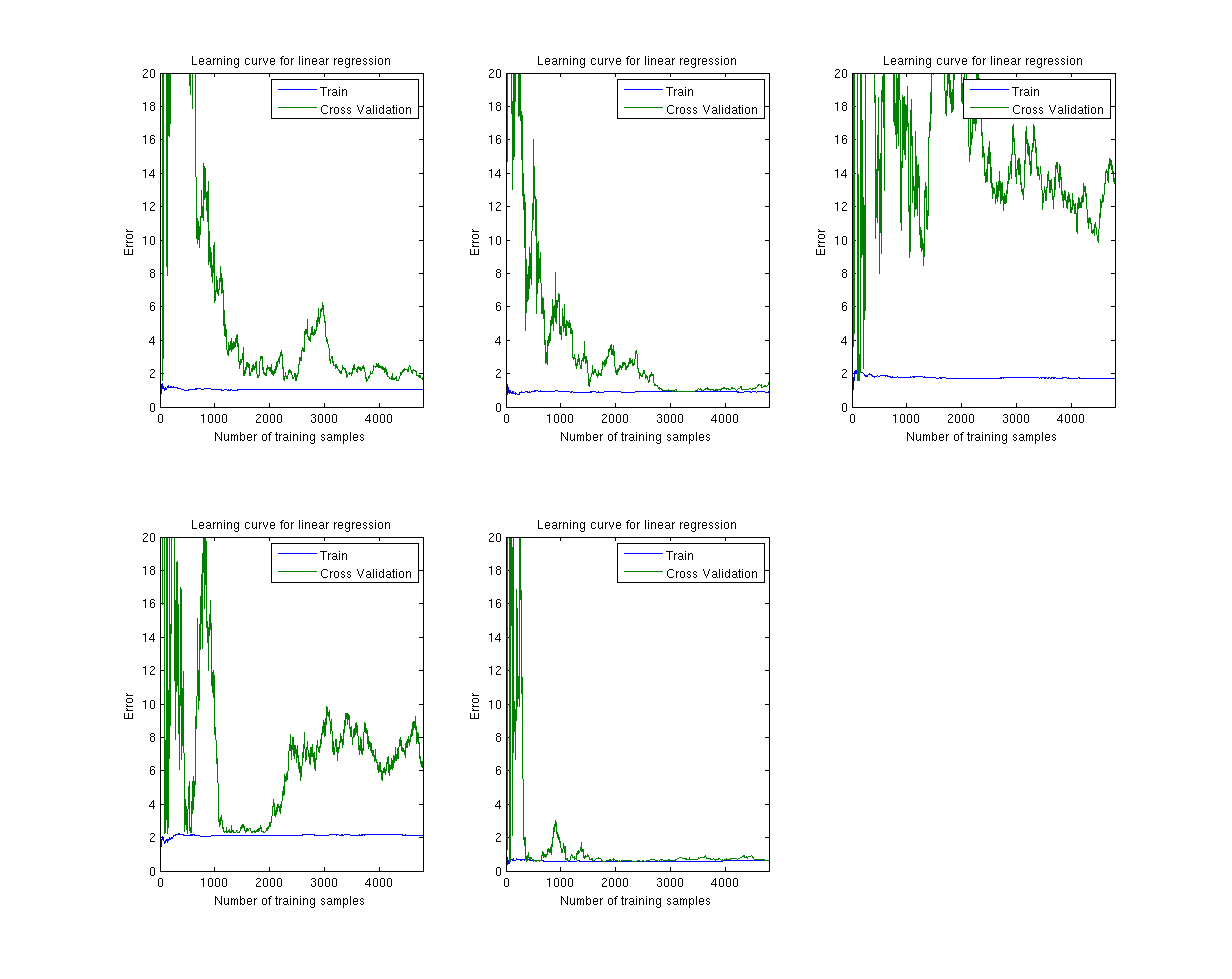
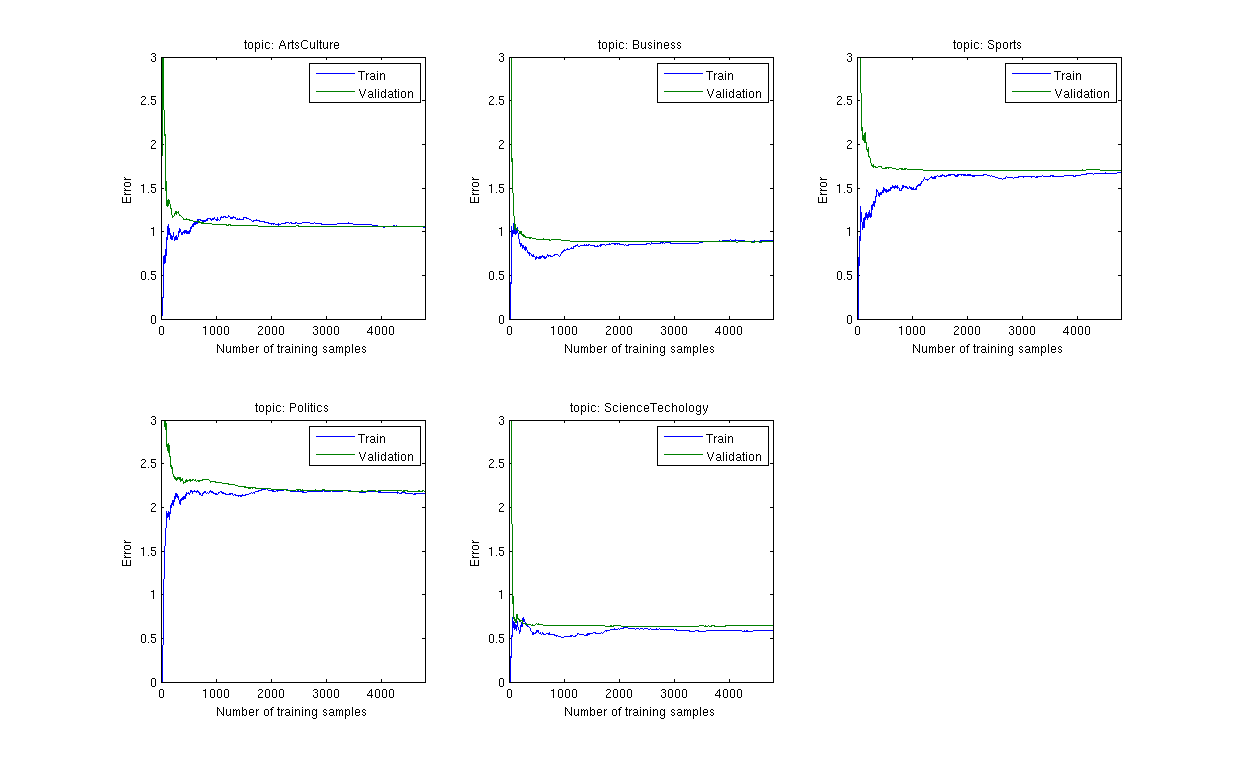
remove feature normalize and new results

diff --git a/TweetClassify/matlab/Run.m b/TweetClassify/matlab/Run.m
@@ -14,29 +14,27 @@ clear; close all; clc
     
 %% Run for topic ArtsCulture    
 %    topic = 1;
-%    lambda = 6;
+%    lambda = 0;
 %    [x1,y1,theta1] = main(topic,lambda);
 
 %% Run for topic Business
 %    topic = 2;
-%    lambda = 10;
+%    lambda = 0;
 %    [x2,y2,theta2] = main(topic,lambda);
 
 %% Run for topic Sports 
 %    topic = 3;
-%    lambda = 10;
+%    lambda = 0;
 %    [x3,y3,theta3] = main(topic,lambda);
 
 %% Run for topic Politics    
 %    topic = 4;
-%    lambda = 10;
+%    lambda = 0;
 %    [x4,y4,theta4] = main(topic,lambda);
 
-%% Run for topic ScienceTechnology
-    
-    
+%% Run for topic ScienceTechnology    
 %    topic = 5;
-%    lambda = 10;
+%    lambda = 0;
 %    [x5,y5,theta5] = main(topic,lambda);
 %end
 
@@ -56,23 +54,26 @@ for i = 1:iter
 end
 
 %% plot errors_trains
+t = ['ArtsCulture' 'Business' 'Sports' 'Politics' 'ScienceTechnology'];
 figure;
 for i = 1:5
     subplot(2,3,i);
     hist(errors_train(:,i)',10);
-    title('training error distributions')   
-    xlabel('scaled error values')
-    ylabel('count Errors')
+    title(t(i))
+    legend('Training Error')
+    xlabel('Error')
+    ylabel('Count Errors')
 
 end
 
 %% plot errors_val
 figure;
-for i = 1:5
+for i = 1:5 
     subplot(2,3,i);
     hist(errors_val(:,i)',10);
-    title('validation error distributions')   
-    xlabel('scaled error values')
-    ylabel('count Errors')
+    title(t(i))
+    legend('Validation Error')
+    xlabel('Error')
+    ylabel('Count Errors')
 
 end

diff --git a/TweetClassify/matlab/main.m b/TweetClassify/matlab/main.m
@@ -10,7 +10,8 @@ m = length(Y);
 n = length(Yval);
 
 %% X data features normalize
-[X] = featureNormalize(X);
+%[X] = featureNormalize(X);
+%[Xval] = featureNormalize(Xval);
 
 %% init X
 X = [ones(m,1) X];
@@ -22,6 +23,7 @@ Xval = [ones(n,1) Xval];
 train_error = zeros(m,1);
 val_error = zeros(m,1);
 
+t = ['ArtsCulture' 'Business' 'Sports' 'Politics' 'ScienceTechnology'];
 
 %% Run linear regression and plot training error with validation error
 
@@ -36,11 +38,11 @@ end
 
 subplot(2,3,topic);
 plot(1:m, train_error, 1:m,val_error);
-title('Learning curve for linear regression')
-legend('Train','Cross Validation')
+title(t(topic))
+legend('Train','Validation')
 xlabel('Number of training samples')
 ylabel('Error')
-axis([0 m 0 20])
+axis([0 m 0 3])
 
 %% Polynomial Regression
 

diff --git a/TweetClassify/matlab/lambda_test.m b/TweetClassify/matlab/lambda_test.m
@@ -10,7 +10,8 @@ m = length(Y);
 n = length(Yval);
 
 %% X data features normalize
-[X] = featureNormalize(X);
+%[X] = featureNormalize(X);
+%[Xval] = featureNormalize(Xval);
 
 %% init X
 X = [ones(m,1) X];
@@ -22,9 +23,13 @@ Xval = [ones(n,1) Xval];
 [lambda_vec,train_error,val_error] = ...
     regulationCurve(X,Y,Xval,Yval);
 
+t = ['ArtsCulture' 'Business' 'Sports' 'Politics' 'ScienceTechnology'];
+
+%% plot result
 subplot(2,3,topic);
 plot(lambda_vec,train_error,lambda_vec,val_error);
-legend('Train', 'Cross Validation');
-xlabel('lambda');
-ylabel('Error');
+title(t(topic))
+legend('Train', 'Cross Validation')
+xlabel('lambda')
+ylabel('Error')
 %axis([0 10 0 100]);

diff --git a/TweetClassify/matlab/linearCost.m b/TweetClassify/matlab/linearCost.m
@@ -9,7 +9,7 @@ temp = theta;
 temp(1) = 0;
 
 for i = 1 : size(theta,1)
-grad(i) = 1/m * sum((X*theta - y) .* X(:,i)) + lambda/m * temp(i);
+    grad(i) = 1/m * sum((X*theta - y) .* X(:,i)) + lambda/m * temp(i);
 end
 
 grad = grad(:);

diff --git a/TweetClassify/matlab/error_distribution.m b/TweetClassify/matlab/error_distribution.m
@@ -10,7 +10,8 @@ m = length(Y);
 n = length(Yval);
 
 %% X data features normalize
-[X] = featureNormalize(X);
+%[X] = featureNormalize(X);
+%[Xval] = featureNormalize(Xval);
 
 %% init X
 X = [ones(m,1) X];

diff --git a/TweetClassify/matlab/nqTheta.m b/TweetClassify/matlab/nqTheta.m
@@ -1,4 +1,4 @@
-function [theta] = trainingTheta(X,Y,lambda)
+function [theta] = nqTheta(X,Y,lambda)
 
 %% create diagonal matrix
 v = ones(1,size(X,2));
